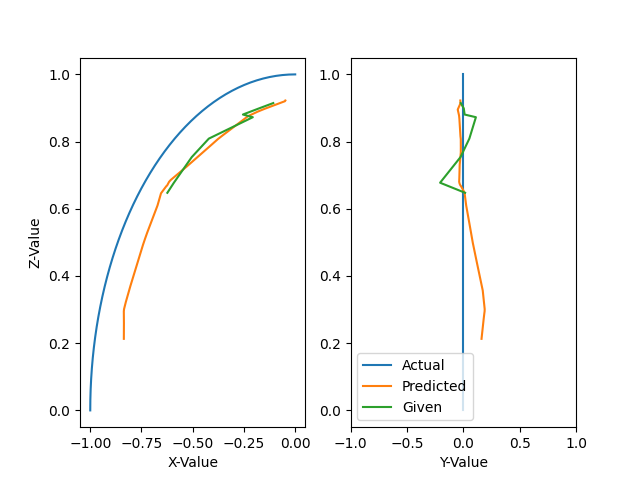
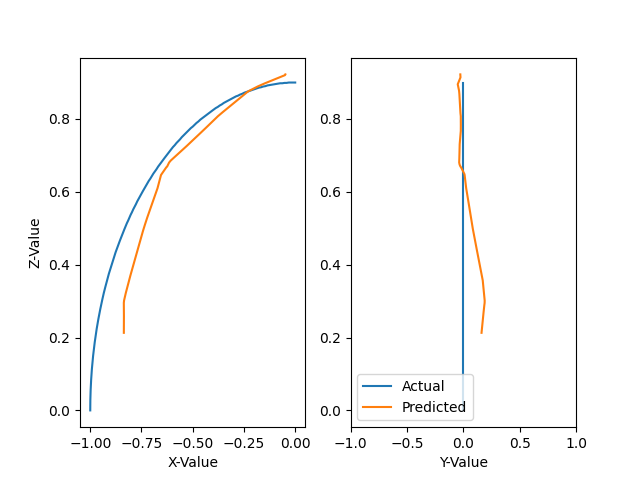
Adjust range of possible z-values

diff --git a/manual_testing/manual_testing.py b/manual_testing/manual_testing.py
@@ -47,7 +47,7 @@ def plot_forward(manual, predicted, given = None):
 	plt.show()
 	return
 
-plot_forward(manual, predicted)
+# plot_forward(manual, predicted)
 
 # Inverse model testing
 
